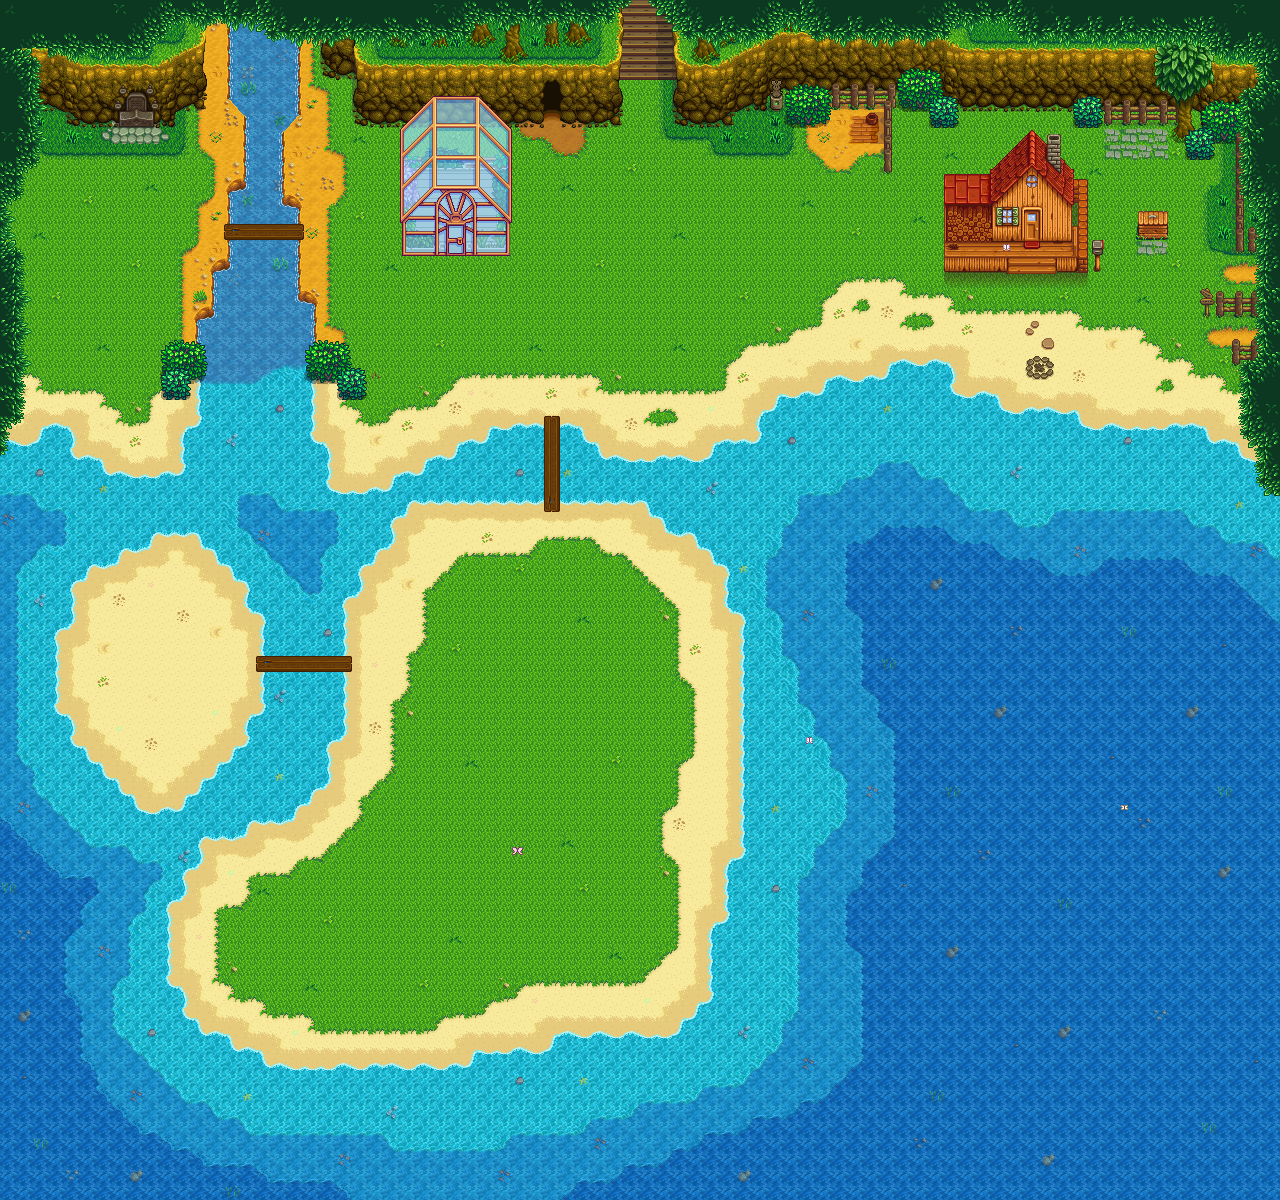
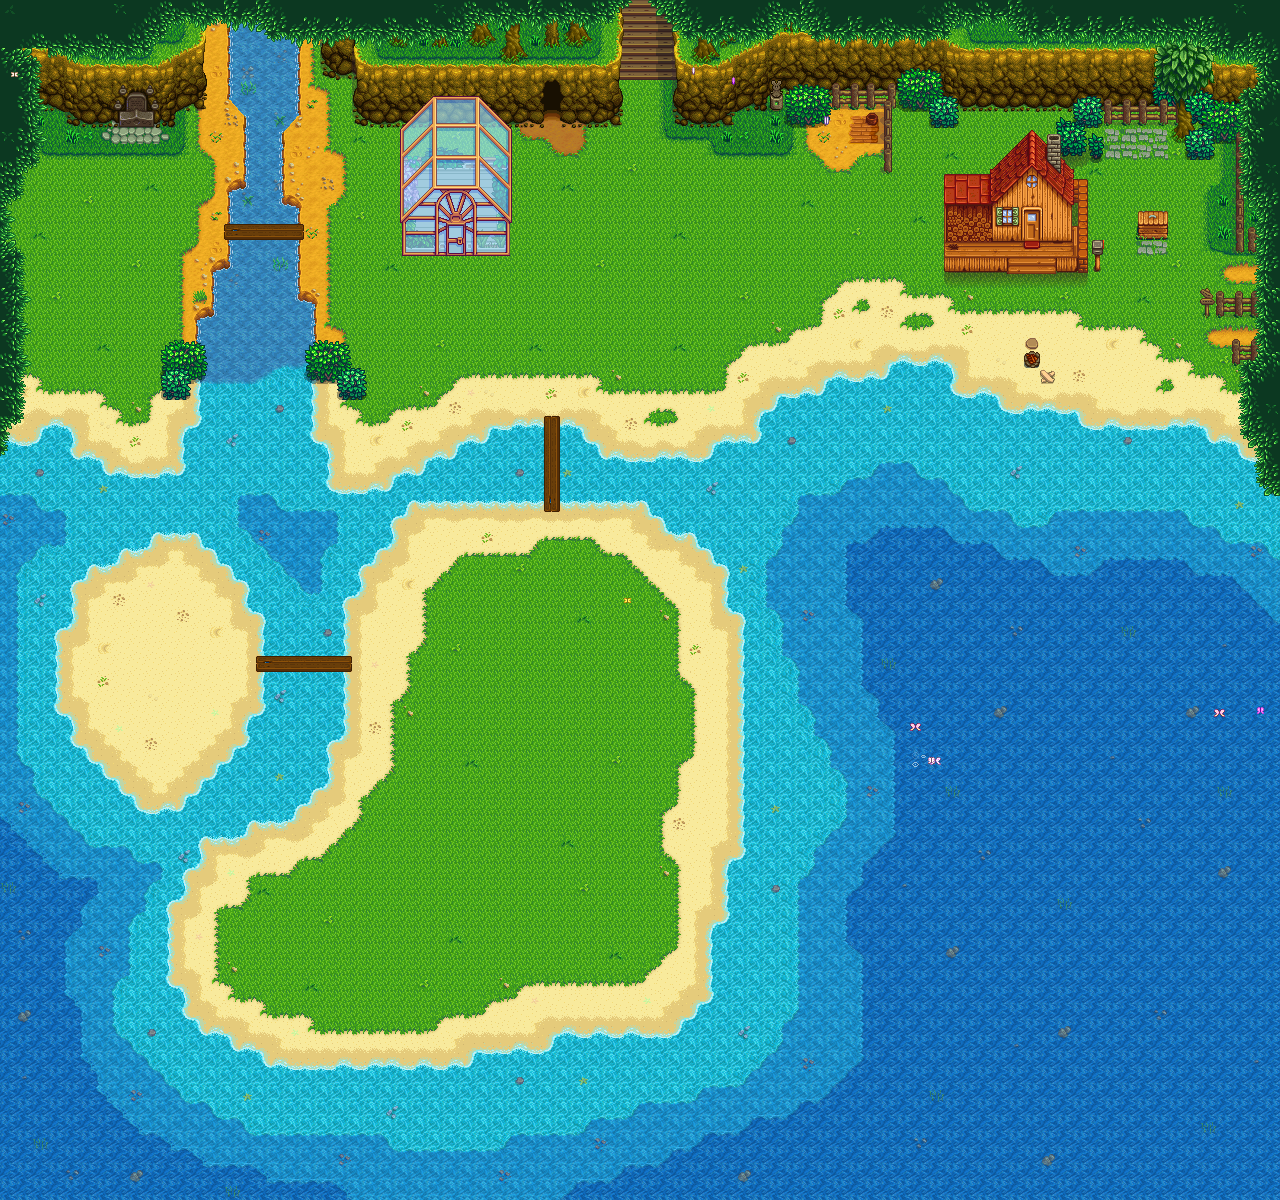
add functional campfire to Small Beach Farm

Changed region(s): [[0.0, 0.0308, 1.0, 1.0], [0.8125, 0.0925, 0.875, 0.1542], [0.9062, 0.0617, 0.9688, 0.0925]]

diff --git a/SmallBeachFarm/Framework/FarmPatcher.cs b/SmallBeachFarm/Framework/FarmPatcher.cs
@@ -53,6 +53,10 @@ namespace Pathoschild.Stardew.SmallBeachFarm.Framework
                 prefix: new HarmonyMethod(typeof(FarmPatcher), nameof(FarmPatcher.After_ResetLocalState))
             );
             harmony.Patch(
+                original: AccessTools.Method(typeof(Farm), "resetSharedState"),
+                prefix: new HarmonyMethod(typeof(FarmPatcher), nameof(FarmPatcher.After_ResetSharedState))
+            );
+            harmony.Patch(
                 original: AccessTools.Method(typeof(Farm), nameof(Farm.cleanupBeforePlayerExit)),
                 prefix: new HarmonyMethod(typeof(FarmPatcher), nameof(FarmPatcher.After_CleanupBeforePlayerExit))
             );
@@ -96,32 +100,56 @@ namespace Pathoschild.Stardew.SmallBeachFarm.Framework
             return true;
         }
 
-        /// <summary>A method called via Harmony after <see cref="Farm.resetLocalState"/>, which changes the background soundtrack.</summary>
+        /// <summary>A method called via Harmony after <see cref="Farm.resetLocalState"/>.</summary>
         /// <param name="__instance">The farm instance.</param>
         [SuppressMessage("ReSharper", "InconsistentNaming", Justification = "The naming convention is defined by Harmony.")]
         private static void After_ResetLocalState(GameLocation __instance)
         {
-            if (FarmPatcher.ShouldUseBeachMusic(__instance))
+            if (!FarmPatcher.IsSmallBeachFarm(__instance))
+                return;
+
+            // change background track
+            if (FarmPatcher.ShouldUseBeachMusic())
                 Game1.changeMusicTrack("ocean");
         }
 
-        /// <summary>A method called via Harmony after <see cref="Farm.cleanupBeforePlayerExit"/>, which resets the background soundtrack.</summary>
+        /// <summary>A method called via Harmony after <see cref="Farm.resetSharedState"/>.</summary>
+        /// <param name="__instance">The farm instance.</param>
+        [SuppressMessage("ReSharper", "InconsistentNaming", Justification = "The naming convention is defined by Harmony.")]
+        private static void After_ResetSharedState(GameLocation __instance)
+        {
+            if (!FarmPatcher.IsSmallBeachFarm(__instance))
+                return;
+
+            // add campfire (derived from StardewValley.Locations.Mountain:resetSharedState
+            Vector2 campfireTile = new Vector2(64, 22);
+            if (!__instance.objects.ContainsKey(campfireTile))
+            {
+                __instance.objects.Add(campfireTile, new Torch(campfireTile, 146, true)
+                {
+                    IsOn = false,
+                    Fragility = SObject.fragility_Indestructable
+                });
+            }
+        }
+
+        /// <summary>A method called via Harmony after <see cref="Farm.cleanupBeforePlayerExit"/>.</summary>
         /// <param name="__instance">The farm instance.</param>
         [SuppressMessage("ReSharper", "InconsistentNaming", Justification = "The naming convention is defined by Harmony.")]
         private static void After_CleanupBeforePlayerExit(GameLocation __instance)
         {
-            if (FarmPatcher.ShouldUseBeachMusic(__instance))
+            if (!FarmPatcher.IsSmallBeachFarm(__instance))
+                return;
+
+            // change background track
+            if (FarmPatcher.ShouldUseBeachMusic())
                 Game1.changeMusicTrack("none");
         }
 
-        /// <summary>Get whether the location's music should be overridden with the beach sounds.</summary>
-        /// <param name="location">The location to check.</param>
-        private static bool ShouldUseBeachMusic(GameLocation location)
+        /// <summary>Get whether the Small Beach Farm's music should be overridden with the beach sounds.</summary>
+        private static bool ShouldUseBeachMusic()
         {
-            return
-                FarmPatcher.UseBeachMusic
-                && !Game1.isRaining
-                && FarmPatcher.IsSmallBeachFarm(location);
+            return FarmPatcher.UseBeachMusic && !Game1.isRaining;
         }
     }
 }

diff --git a/SmallBeachFarm/README.md b/SmallBeachFarm/README.md
@@ -24,6 +24,9 @@ A few highlights:
 * If you use [Automate](https://www.nexusmods.com/stardewvalley/mods/1063), you can connect chests
   to crab pots all along the beach:
   > ![](docs/automate-crabpots.png)
+* The beach includes a functional campfire you can light or extinguish (pairs well with the
+  [Campfire Cooking](https://mods.smapi.io/#Campfire_Cooking) mod):  
+  > ![](docs/campfire.gif)
 
 If you need more space, the alternate _Small Beach With Islands_ adds ocean islands for extra land
 area:

diff --git a/SmallBeachFarm/release-notes.md b/SmallBeachFarm/release-notes.md
@@ -3,6 +3,7 @@
 # Release notes
 ## Upcoming release
 * Added optional beach sounds on the farm (disabled by default).
+* Added functional campfire (replaces previous decorative one).
 * Fixed island building exits leading to the farm exit area.
 
 ## 1.3
